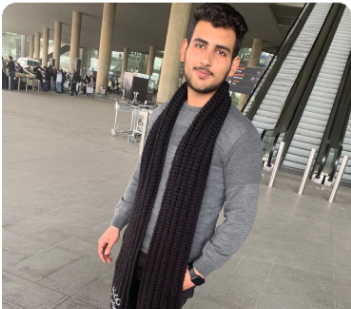
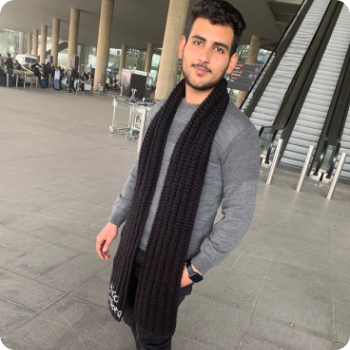
Add LinkTree page

diff --git a/LinkTree.html b/LinkTree.html
@@ -1,0 +1,38 @@
+<!-- <title>LinkTree</title>
+    <link href="img/Logo.png" rel="icon">
+    <meta name="viewport" content="width=device-width, initial-scale=1">
+    <link rel="stylesheet" href="styles/LinkTree.css">
+    <link rel="preconnect" href="https://fonts.googleapis.com">
+    <link rel="preconnect" href="https://fonts.gstatic.com" crossorigin> -->
+
+<html lang="en">
+
+<head>
+    <meta charset="UTF-8">
+    <meta name="viewport" content="width=device-width, initial-scale=1.0">
+    <link href="img/Logo.png" rel="icon">
+    <link rel="stylesheet" href="styles/LinkTree.css">
+    <link rel="preconnect" href="https://fonts.googleapis.com">
+    <link rel="preconnect" href="https://fonts.gstatic.com" crossorigin>
+    <link href="https://fonts.googleapis.com/css2?family=Barlow+Semi+Condensed:ital,wght@1,700&display=swap"
+        rel="stylesheet">
+    <title>LinkTree</title>
+</head>
+
+<body>
+
+    <img src="img/Alaa-LinkTree.png"
+        alt="Profile Picture Could Not Be Loaded! Please refresh the page or try changing the browser."
+        class="profile-picture">
+
+    <div class="name">Alaa Abusarah</div>
+
+    <a href="https://www.linkedin.com/in/alaaabusarah" target="blank" class="links">LinkedIn</a>
+    <a href="https://github.com/Alaa-AbuSarah" target="blank" class="links">Github</a>
+    <a href="https://alaaabusarah.com" target="blank" class="links">Website</a>
+    <a href="https://www.instagram.com/alaaabusarah" target="blank" class="links">Instagram</a>
+    <a href="https://www.youtube.com/channel/UCbNFTd185PPf2MNguGWVumA" target="blank" class="links">YouTube</a>
+
+</body>
+
+</html>

diff --git a/styles/LinkTree.css b/styles/LinkTree.css
@@ -1,0 +1,63 @@
+body {
+    color: #fff;
+    font-family: "Poppins", sans-serif;
+    font-size: 20px;
+  
+    background: #191d2b;
+    /* background: -webkit-linear-gradient(bottom right, #191d2b, #000);
+    background: -moz-linear-gradient(bottom right, #191d2b, #000); */
+    /* background: linear-gradient( top left, #191d2b, #000); */
+    background-repeat: no-repeat;
+    background-attachment: fixed;
+    
+}
+
+
+
+.profile-picture {
+    display: block;
+    margin-top:35px;
+    margin-left: auto;
+    margin-right: auto;
+    margin-bottom: auto;
+    height: auto;
+    max-width: 150px;
+    border-radius: 50%;
+    filter: drop-shadow(0px 0px 4px #27AE60);
+  }
+
+.name {
+    font-family: "Poppins", sans-serif;
+    text-align: center;
+    margin-top:15px;
+    margin-bottom:15px;
+    font-size: 30px;
+    font-weight: 450;
+  }
+
+.links {
+      font-family: "Poppins", sans-serif;
+      text-align: center;
+      font-weight: bold;
+      margin-top: 15px;
+      padding: 15px;
+      border: 1px solid #f8f8f8;
+      border-width: 2px;
+      width: 225px;
+      display: block;
+      margin-left: auto;
+      margin-right: auto;
+      border-radius: 100px;
+  }
+
+a {
+    text-decoration: none;
+    color: white;
+    transition: color 0.5s; 
+}
+
+
+a:hover {
+    color: #000;
+    background: #27AE60;
+}

diff --git a/404.html b/404.html
@@ -5,7 +5,7 @@
     <meta charset="utf-8">
     <meta name="viewport"
         content="width=device-width, initial-scale=1.0, minimum-scale=1.0, maximum-scale=1.0,user-scalable=no">
-    <title>404</title>
+    <title>404 - Page not found</title>
     <link href="img/Logo.png" rel="icon">
     <script type="text/javascript" src="js/jquery.min.js"></script>
     <style>
